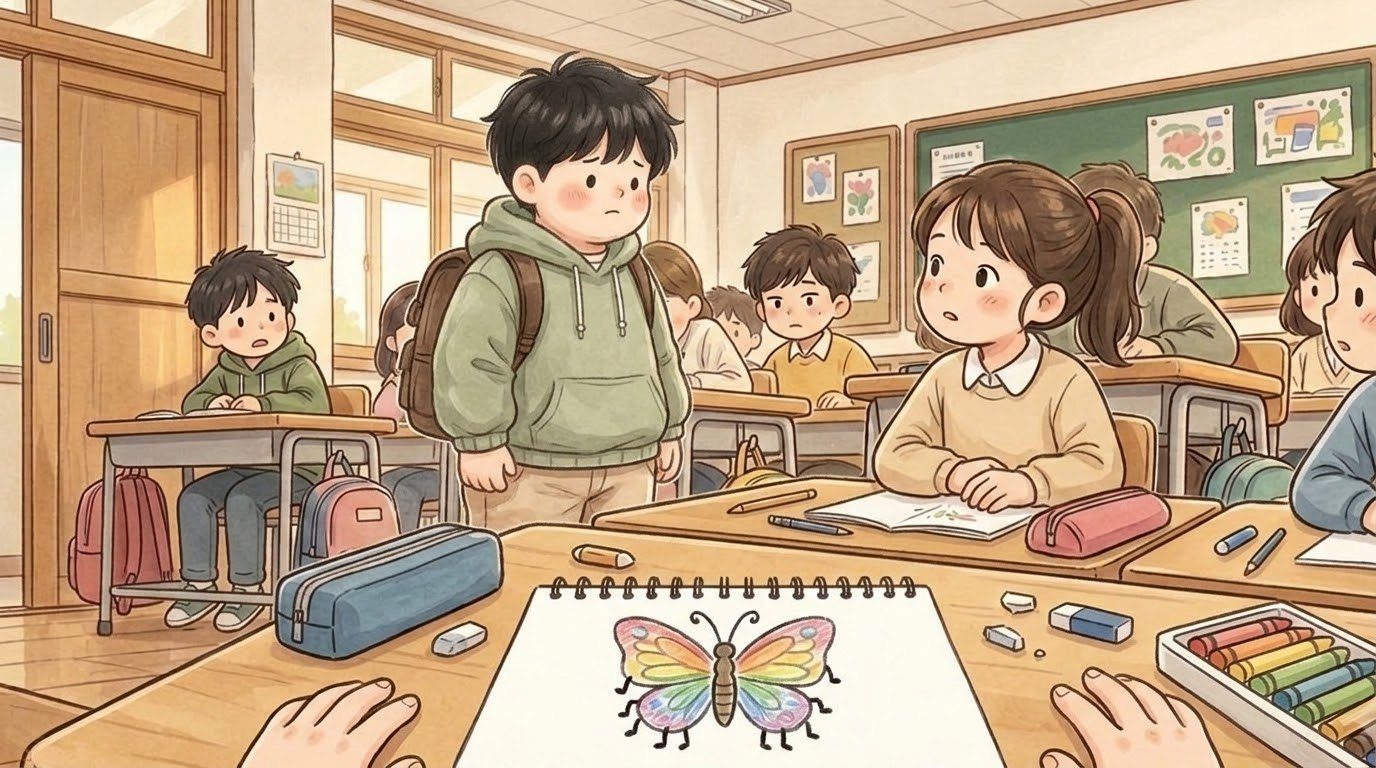
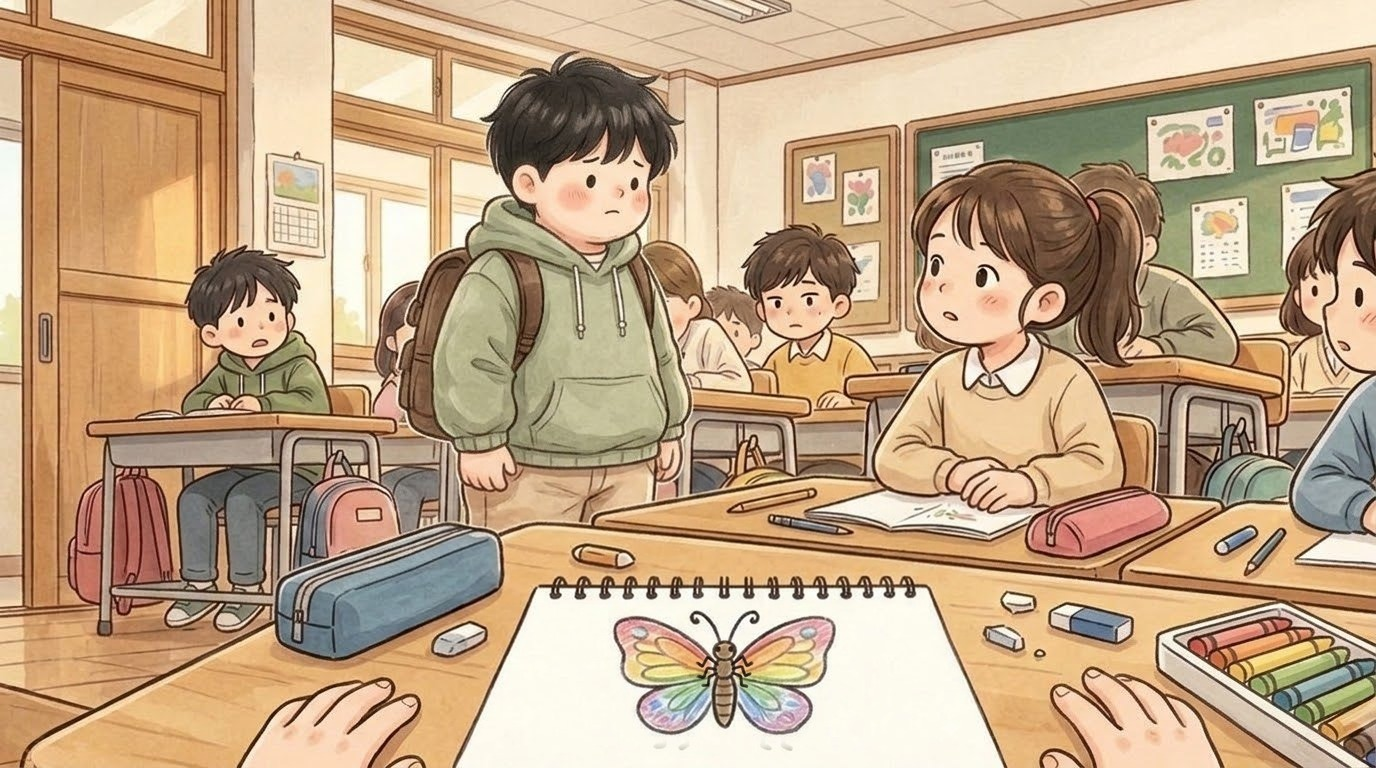
Siwoo 02 and 02a: the hero's insect drawing has six thin insect legs and the antennae on the head (owner approved 11/06)

diff --git a/index.html b/index.html
@@ -119,14 +119,14 @@ body,button{word-break:keep-all;overflow-wrap:break-word}
 <div id="fader"></div>
 <script>
 // same address, newest version: if the page this phone has kept is older than the one online, fetch the new one and reopen
-const BUILD='1106113527';
+const BUILD='1106133735';
 try{fetch(location.pathname,{cache:'no-store'}).then(r=>r.text()).then(t=>{const m=t.match(/const BUILD='(\d+)'/);if(m&&m[1]!==BUILD&&sessionStorage.getItem('upd')!==m[1]){sessionStorage.setItem('upd',m[1]);fetch(location.pathname,{cache:'reload'}).then(()=>location.reload())}}).catch(()=>{})}catch(e){}
 </script>
-<script src="i18n.js?v=1106113527"></script>
-<script src="i18n_prologue_v2.js?v=1106113527"></script>
-<script src="day2/i18n_engine.js?v=1106113527"></script>
-<script src="day2/data.js?v=1106113527"></script>
-<script src="day3/data.js?v=1106113527"></script>
+<script src="i18n.js?v=1106133735"></script>
+<script src="i18n_prologue_v2.js?v=1106133735"></script>
+<script src="day2/i18n_engine.js?v=1106133735"></script>
+<script src="day2/data.js?v=1106133735"></script>
+<script src="day3/data.js?v=1106133735"></script>
 <script>
 // ---------- data ----------
 const MW=1672,MH=941,KID=180;
@@ -545,30 +545,30 @@ function pickHero(){const m=document.getElementById('modal'),c=document.getEleme
  c.innerHTML=`<h2>${tr('전학생 반장되기')}</h2><p>${tr('말 한마디 못 하는 전학생,<br>반장 선거에 나가다.')}</p><p style="margin-top:14px">${tr('누구로 할까요?')}</p>${(()=>{const s=loadSave();return s&&s.day>=2&&s.mode===UI+'-'+LANG?`<p><button class="big" id="cont">${tr('{n}일차부터 이어 하기').replace('{n}',s.day)}</button></p>`:''})()}<div class="pick heroes"><button data-h="hero_f"><img src="faces/hero_f_smile.jpg" alt="여자 주인공">${heroName(1)}</button><button data-h="hero_m"><img src="faces/hero_m_smile.jpg" alt="남자 주인공">${heroName(0)}</button></div>`;
  m.classList.add('on');{const cb=document.getElementById('cont');if(cb)cb.onclick=()=>{const s=loadSave();HERO=s.hero;Object.assign(HEART,s.heart||{});(s.found||[]).forEach(k=>FOUND.add(k));HEART_D1={...HEART};chime();(typeof contGame==='function'?contGame(s):startDay(Math.min(s.day,Object.keys(window.D3||{}).length?3:2)))}}c.querySelectorAll('.pick button').forEach(b=>b.onclick=()=>{HERO=b.dataset.h;m.classList.remove('on');chime();bgm('day');load('home_am');say([['nar','','이사 온 다음 날 아침. 아직 풀지 못한 상자들이 쌓여 있다.'],['think','sad','(오늘부터 새 학교야. 여기 말도 아직 서툰데…….)'],['think','smile','({m}한테 인사하고 학교 가야지.)']],morning)})}
 </script>
-<script src="day2/engine.js?v=1106113527"></script>
-<script src="day2/ep_minho.js?v=1106113527"></script>
-<script src="day2/meet.js?v=1106113527"></script>
-<script src="day2/ep_sua.js?v=1106113527"></script>
-<script src="day2/ep_hangyeol.js?v=1106113527"></script>
-<script src="day2/ep_siwoo.js?v=1106113527"></script>
-<script src="day2/ep_haram.js?v=1106113527"></script>
-<script src="day2/ep_jiho.js?v=1106113527"></script>
-<script src="day2/ep_hyeeun.js?v=1106113527"></script>
-<script src="day2/ep_haneul.js?v=1106113527"></script>
-<script src="day2/ep_junho.js?v=1106113527"></script>
-<script src="day2/ep_yuna.js?v=1106113527"></script>
-<script src="day2/ep_yena.js?v=1106113527"></script>
-<script src="day2/ep_haeun.js?v=1106113527"></script>
-<script src="day2/ep_youngmin.js?v=1106113527"></script>
-<script src="day2/ep_seah.js?v=1106113527"></script>
-<script src="day2/ep_jihoon.js?v=1106113527"></script>
-<script src="words_ja_ru.js?v=1106113527"></script>
-<script src="day2/mybag.js?v=1106113527"></script>
-<script src="day2/wordpics.js?v=1106113527"></script>
-<script src="day2/spots.js?v=1106113527"></script>
-<script src="day2/textfit.js?v=1106113527"></script>
-<script src="day2/tester.js?v=1106113527"></script>
-<script src="day2/ux.js?v=1106113527"></script>
+<script src="day2/engine.js?v=1106133735"></script>
+<script src="day2/ep_minho.js?v=1106133735"></script>
+<script src="day2/meet.js?v=1106133735"></script>
+<script src="day2/ep_sua.js?v=1106133735"></script>
+<script src="day2/ep_hangyeol.js?v=1106133735"></script>
+<script src="day2/ep_siwoo.js?v=1106133735"></script>
+<script src="day2/ep_haram.js?v=1106133735"></script>
+<script src="day2/ep_jiho.js?v=1106133735"></script>
+<script src="day2/ep_hyeeun.js?v=1106133735"></script>
+<script src="day2/ep_haneul.js?v=1106133735"></script>
+<script src="day2/ep_junho.js?v=1106133735"></script>
+<script src="day2/ep_yuna.js?v=1106133735"></script>
+<script src="day2/ep_yena.js?v=1106133735"></script>
+<script src="day2/ep_haeun.js?v=1106133735"></script>
+<script src="day2/ep_youngmin.js?v=1106133735"></script>
+<script src="day2/ep_seah.js?v=1106133735"></script>
+<script src="day2/ep_jihoon.js?v=1106133735"></script>
+<script src="words_ja_ru.js?v=1106133735"></script>
+<script src="day2/mybag.js?v=1106133735"></script>
+<script src="day2/wordpics.js?v=1106133735"></script>
+<script src="day2/spots.js?v=1106133735"></script>
+<script src="day2/textfit.js?v=1106133735"></script>
+<script src="day2/tester.js?v=1106133735"></script>
+<script src="day2/ux.js?v=1106133735"></script>
 <script>
 // the goal shows big for a few seconds, then folds into a small pill (tap it to open it again)
 {const g=document.getElementById('goal');let t=null;const big=()=>{g.classList.remove('mini');clearTimeout(t);t=setTimeout(()=>g.classList.add('mini'),4000)};
